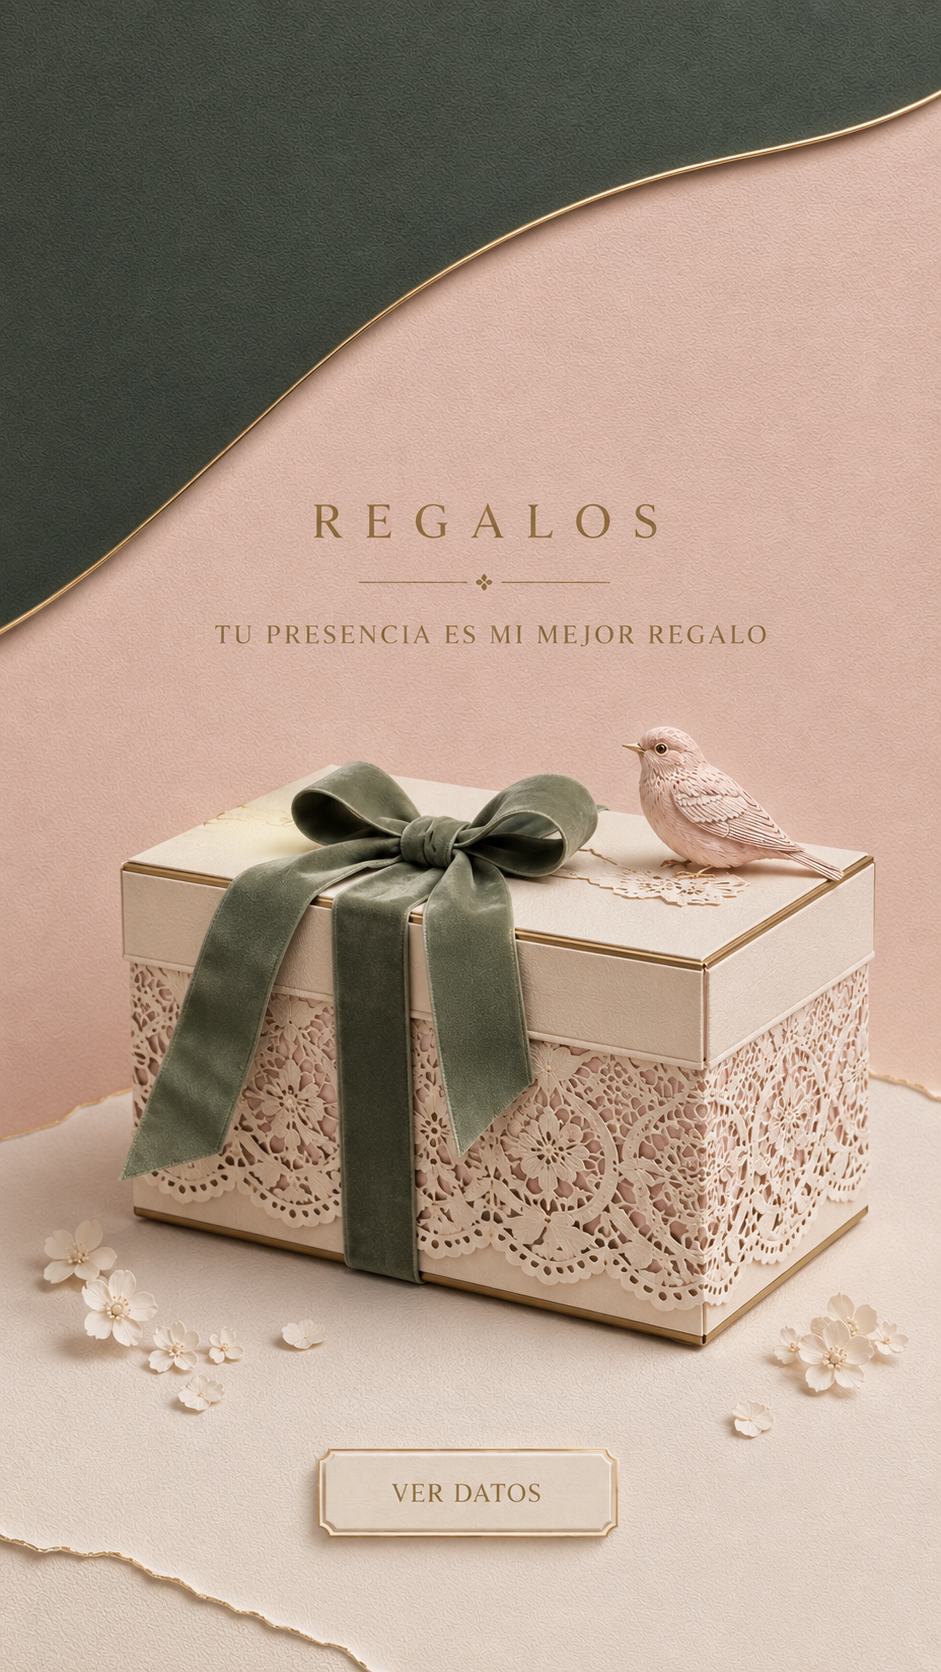
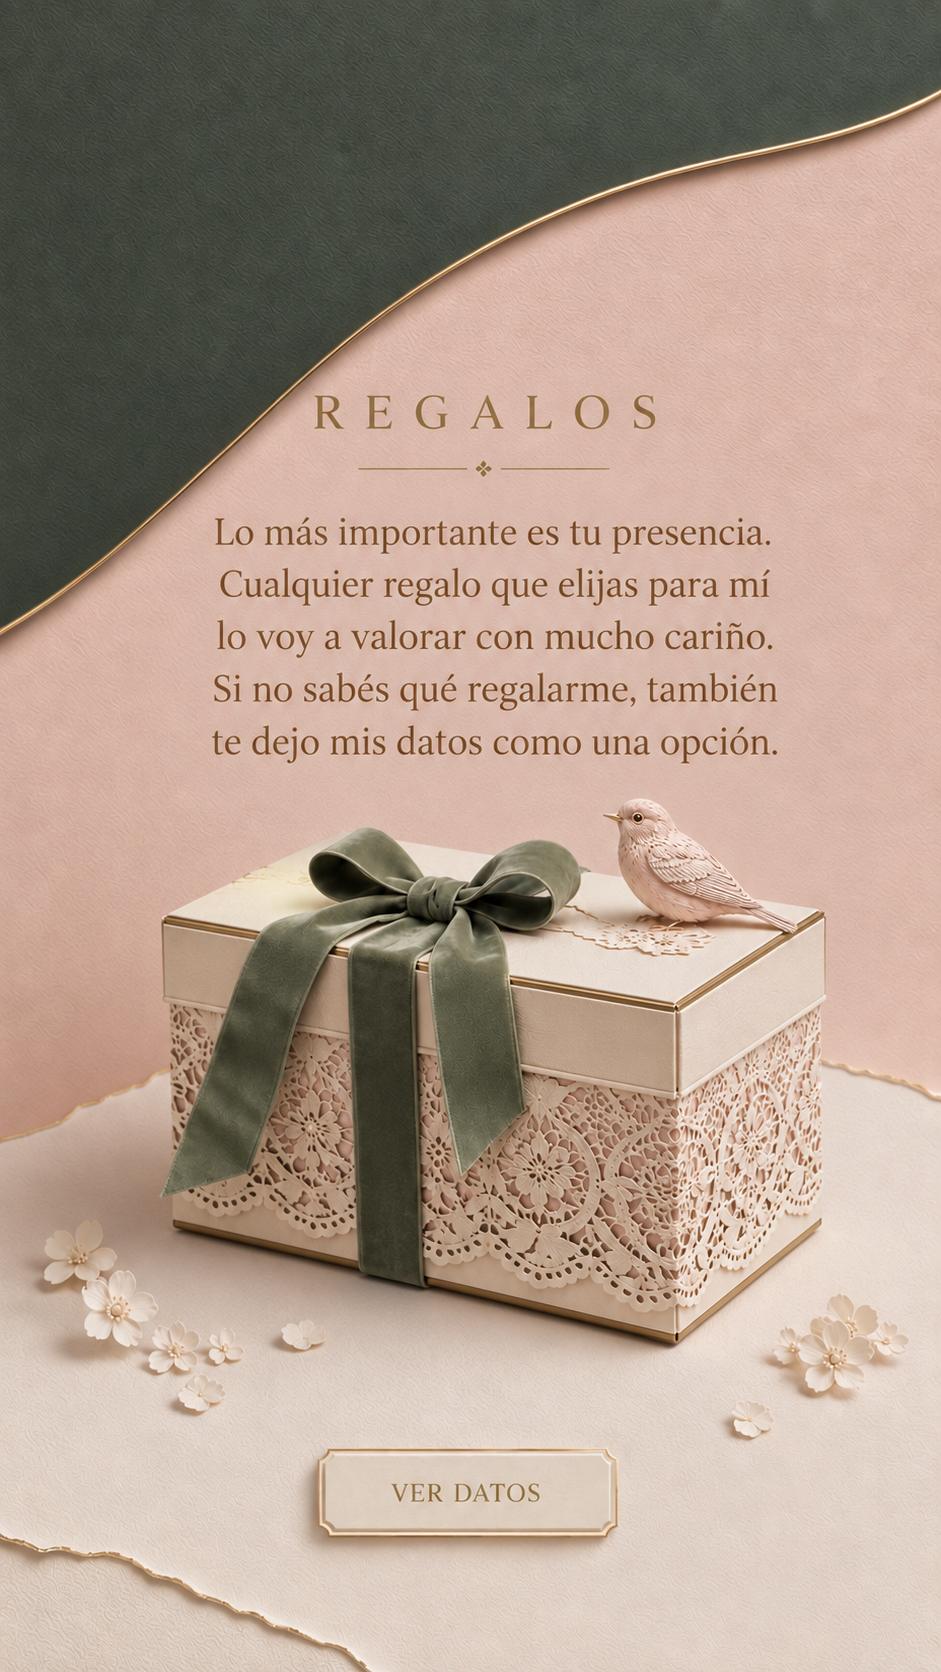
Actualizar diseño y vista previa de Fiorella

Changed region(s): [[0.1233, 0.2799, 0.9245, 0.8086], [0.3082, 0.2177, 0.3698, 0.2488], [0.6164, 0.2177, 0.6472, 0.2488]]

diff --git a/app/layout.tsx b/app/layout.tsx
@@ -1,32 +1,38 @@
 import type { Metadata } from "next";
-import { headers } from "next/headers";
 import "./globals.css";
 
-export async function generateMetadata(): Promise<Metadata> {
-  const requestHeaders = await headers();
-  const host = requestHeaders.get("x-forwarded-host") ?? requestHeaders.get("host") ?? "localhost";
-  const protocol = requestHeaders.get("x-forwarded-proto") ?? (host.includes("localhost") ? "http" : "https");
-  const origin = `${protocol}://${host}`;
-  const title = "Fiorella · Mis XV";
-  const description = "Te invito a compartir conmigo una noche inolvidable. 7 de noviembre de 2026.";
+const siteUrl = "https://bloomdate-fiorella15.netlify.app";
+const title = "Fiorella · Mis XV";
+const description = "¡Mis XV se acercan! 💕 Te invito a compartir conmigo una noche inolvidable. 7 de noviembre de 2026 · 21 hs.";
+const socialImage = `${siteUrl}/og-fiorella-20260906.jpg`;
 
-  return {
+export const metadata: Metadata = {
+  metadataBase: new URL(siteUrl),
+  title,
+  description,
+  alternates: { canonical: "/" },
+  openGraph: {
     title,
     description,
-    openGraph: {
-      title,
-      description,
-      type: "website",
-      images: [{ url: `${origin}/og.png`, width: 1732, height: 917, alt: "Fiorella · Mis XV" }],
-    },
-    twitter: {
-      card: "summary_large_image",
-      title,
-      description,
-      images: [`${origin}/og.png`],
-    },
-  };
-}
+    type: "website",
+    url: siteUrl,
+    siteName: "Fiorella · Mis XV",
+    locale: "es_AR",
+    images: [{
+      url: socialImage,
+      width: 1200,
+      height: 630,
+      alt: "Fiorella celebra sus XV el 7 de noviembre a las 21 hs",
+      type: "image/jpeg",
+    }],
+  },
+  twitter: {
+    card: "summary_large_image",
+    title,
+    description,
+    images: [socialImage],
+  },
+};
 
 export default function RootLayout({ children }: Readonly<{ children: React.ReactNode }>) {
   return <html lang="es"><body>{children}</body></html>;

diff --git a/app/page.tsx b/app/page.tsx
@@ -62,14 +62,14 @@ function useCountdown() {
 }
 
 const sections = [
-  { image: "/01-portada.png", label: "Portada: Fiorella, mis quince" },
+  { image: "/01-portada.png?v=20260906-nueva-portada", label: "Portada: Fiorella, mis quince" },
   { image: "/02-contador-clean.png", label: "Cuenta regresiva" },
   { image: "/03-fecha.png", label: "Fecha y hora" },
   { image: "/04-ubicacion.png", label: "Cómo llegar" },
-  { image: "/05-dresscode.png", label: "Dress code elegante" },
-  { image: "/06-regalos.png", label: "Regalos" },
+  { image: "/05-dresscode.png?v=20260906-nuevo-dress-code", label: "Dress code elegante" },
+  { image: "/06-regalos.png?v=20260906-nuevos-regalos", label: "Regalos" },
   { image: "/07-musica.png", label: "Música" },
-  { image: "/08-rsvp.png?v=fiorella-corrected", label: "Confirmación de asistencia" },
+  { image: "/08-rsvp.png?v=20260906-nuevo-cierre", label: "Confirmación de asistencia" },
 ];
 
 export default function Home() {
@@ -233,7 +233,7 @@ export default function Home() {
             <p>Si querés hacerme un regalo, podés usar estos datos:</p>
             <dl className="gift-details">
               <div><dt>ALIAS</dt><dd>fio.galiatti</dd></div>
-              <div><dt>TITULAR</dt><dd>Galiatti Yamil Adrian</dd></div>
+              <div><dt>TITULAR</dt><dd>Fiorella Galiatti Micheltorena</dd></div>
               <div><dt>ENTIDAD</dt><dd>Banco Credicoop</dd></div>
             </dl>
             <button className="copy" onClick={copyAlias}>{copied ? "¡ALIAS COPIADO!" : "COPIAR ALIAS"}</button>
